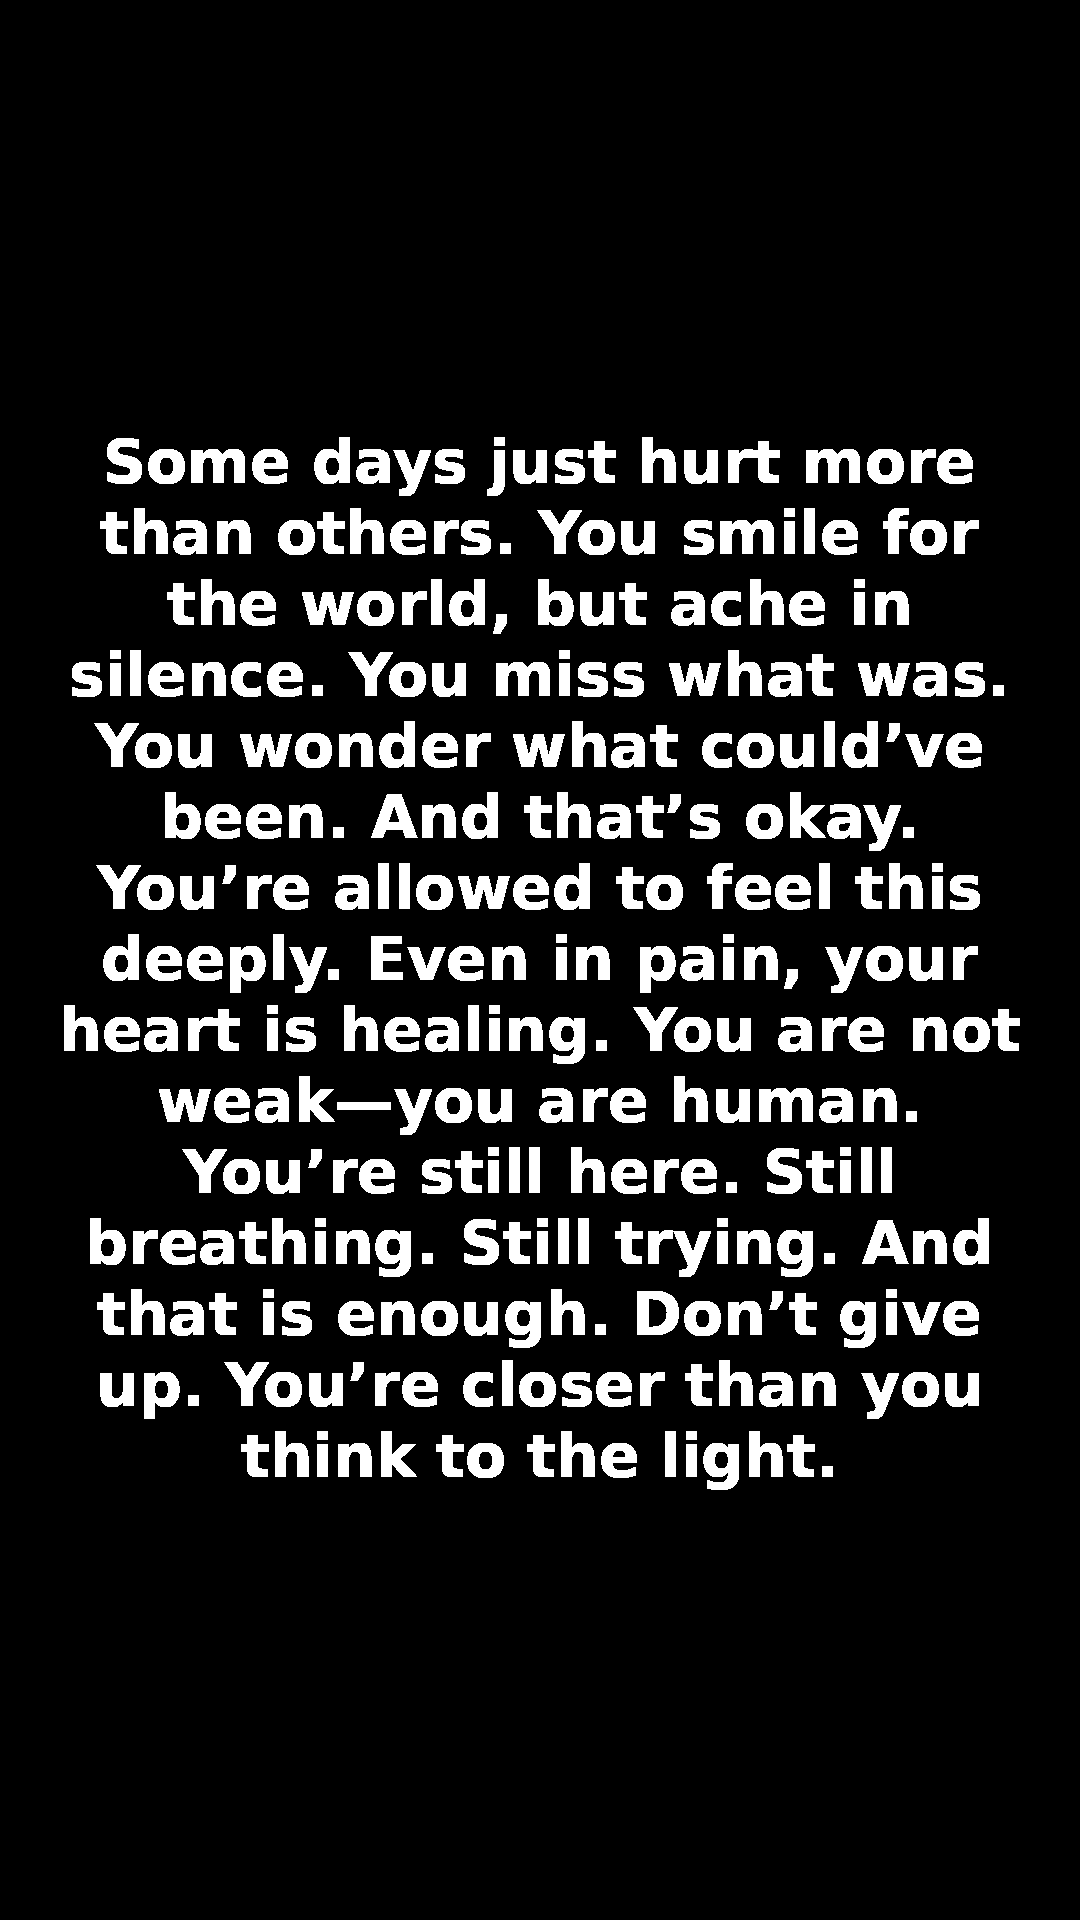
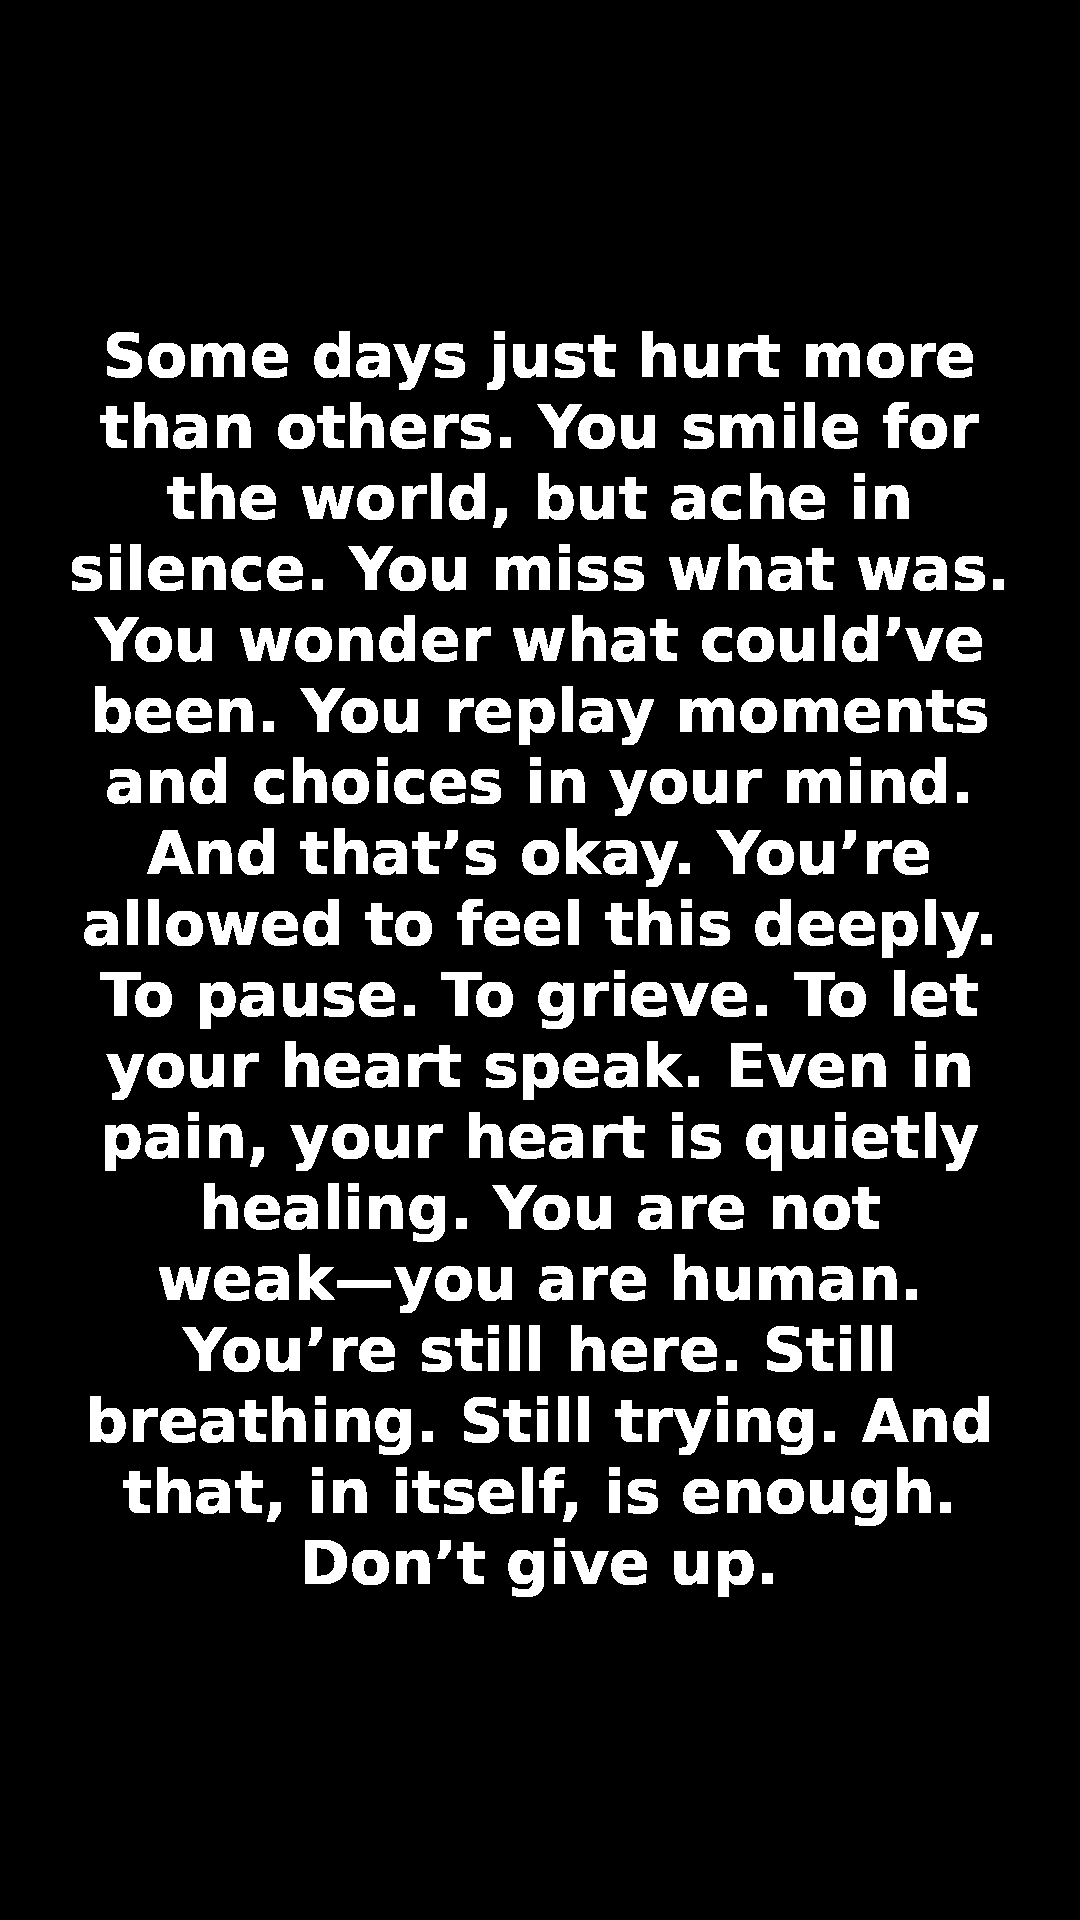
Updated files..

Changed region(s): [[0.0611, 0.1562, 0.9472, 0.8438]]

diff --git a/utils/generate_script.py b/utils/generate_script.py
@@ -74,12 +74,14 @@ The story you carry—it’s just getting started.""",
     "sad": """Some days just hurt more than others.
 You smile for the world, but ache in silence.
 You miss what was. You wonder what could’ve been.
+You replay moments and choices in your mind.
 And that’s okay. You’re allowed to feel this deeply.
-Even in pain, your heart is healing.
+To pause. To grieve. To let your heart speak.
+Even in pain, your heart is quietly healing.
 You are not weak—you are human.
 You’re still here. Still breathing. Still trying.
-And that is enough.
-Don’t give up. You’re closer than you think to the light.""",
+And that, in itself, is enough.
+Don’t give up.""",
 }
 
 
